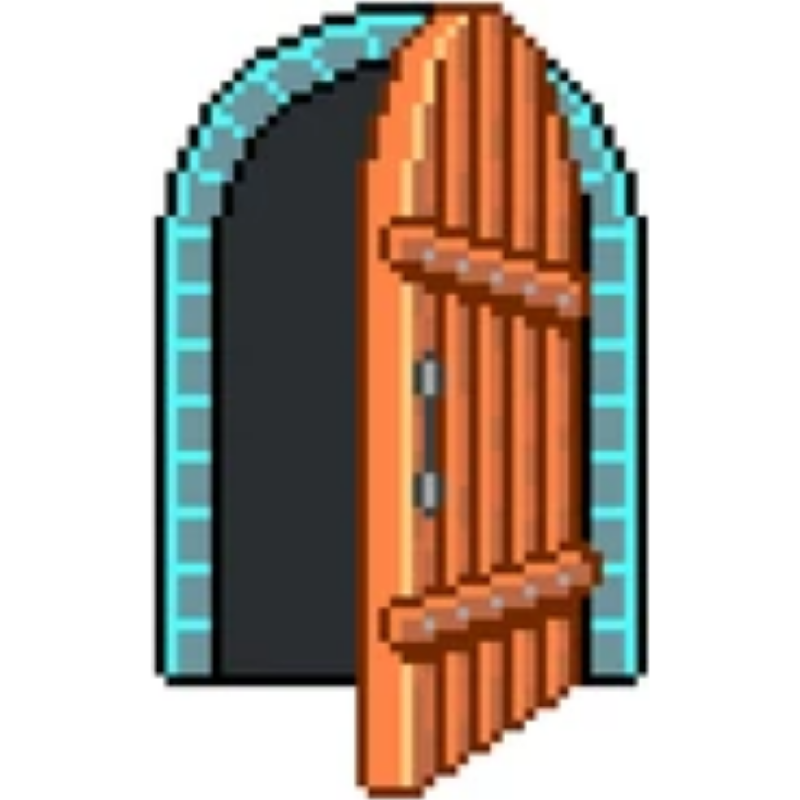
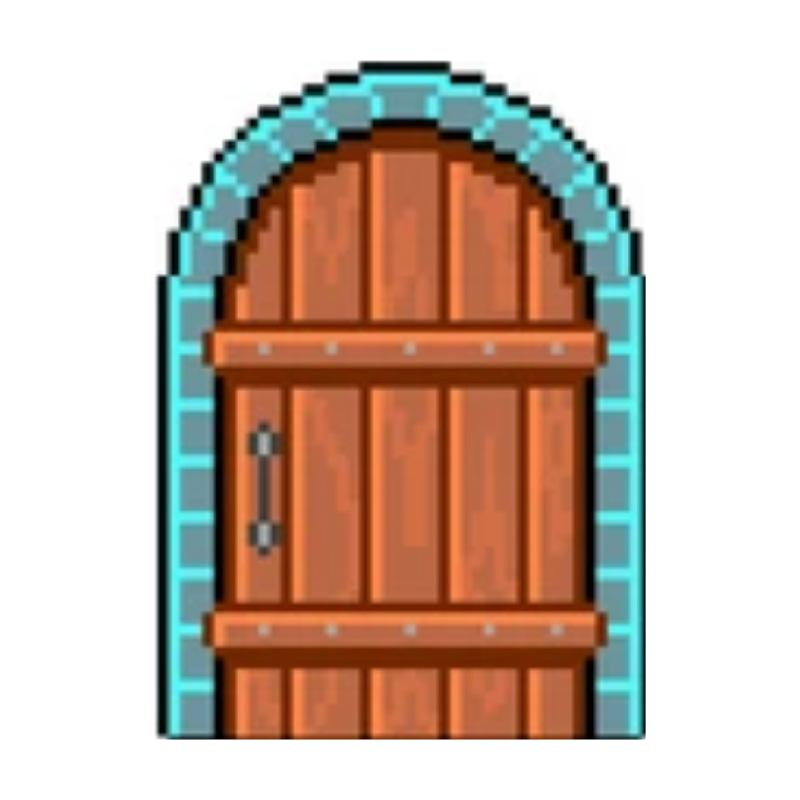
V1.50 - Renamed right picture - Added Door constructor in EntityFactory - Updated logic in InteractionSystem when it comes to doors, now it removes its collision component when you have key and changes texture - Added Doors in Main

diff --git a/core/src/main/java/com/sam/TERMINAL/systems/InteractionSystem.java b/core/src/main/java/com/sam/TERMINAL/systems/InteractionSystem.java
@@ -7,11 +7,10 @@ import com.badlogic.ashley.core.Family;
 import com.badlogic.ashley.utils.ImmutableArray;
 import com.badlogic.gdx.Gdx;
 import com.badlogic.gdx.Input;
-import com.badlogic.gdx.graphics.glutils.ETC1;
-import com.sam.TERMINAL.components.InteractableComponent;
-import com.sam.TERMINAL.components.InventoryComponent;
-import com.sam.TERMINAL.components.PlayerComponent;
-import com.sam.TERMINAL.components.TransformComponent;
+import com.badlogic.gdx.graphics.g2d.TextureRegion;
+import com.sam.TERMINAL.components.CollisionComponent;
+import com.sam.TERMINAL.components.SpriteComponent;
+import com.sam.TERMINAL.components.*;
 
 /**
  * InteractionSystem - Handles the logic for using objects in the world.
@@ -31,12 +30,18 @@ public class InteractionSystem extends EntitySystem {
     private ComponentMapper<TransformComponent> transformMapper;
     private  ComponentMapper<InteractableComponent> interactMapper;
     private  ComponentMapper<InventoryComponent> inventoryMapper;
+    private ComponentMapper<SpriteComponent> spriteMapper;
+
+    private final TextureRegion openDoorSprite;
 
 
-    public InteractionSystem() {
+    public InteractionSystem(TextureRegion openDoorSprite) {
+        this.openDoorSprite = openDoorSprite;
+
         transformMapper = ComponentMapper.getFor(TransformComponent.class);
         interactMapper = ComponentMapper.getFor(InteractableComponent.class);
         inventoryMapper =  ComponentMapper.getFor(InventoryComponent.class);
+        spriteMapper = ComponentMapper.getFor(SpriteComponent.class);
     }
 
     @Override
@@ -88,10 +93,14 @@ public class InteractionSystem extends EntitySystem {
             case "door":
                 if (inventory != null && inventory.hasItem("beep_card")) {
                     System.out.println("Door Unlocked!");
-                    //Change the sprite of door
+
+                    SpriteComponent doorSprite = spriteMapper.get(target);
+                    if (doorSprite !=null) {
+                        doorSprite.staticSprite = openDoorSprite;
+                    }
+
+                    target.remove(CollisionComponent.class);
                     typeData.isActive = false;
-                    //Remove door for now since no asset yet
-                    getEngine().removeEntity(target);
                 } else {
                     System.out.println("Door Locked! Find the Beep Card.");
                 }

diff --git a/core/src/main/java/com/sam/TERMINAL/Main.java b/core/src/main/java/com/sam/TERMINAL/Main.java
@@ -55,6 +55,13 @@ public class Main extends ApplicationAdapter {
 
         // Load Tiles
 
+        //Temp Door
+        Texture doorOpenTexture = new Texture(Gdx.files.internal("opendoor.png"));
+        TextureRegion doorOpenRegion = new TextureRegion(doorOpenTexture);
+
+        Texture doorClosedTexture = new Texture(Gdx.files.internal("closedoor.png"));
+        TextureRegion doorCloseRegion = new TextureRegion(doorClosedTexture);
+
         //Creates walls
         Texture wallTexture = new Texture(Gdx.files.internal("BackRoomsWall.png"));
         TextureRegion wallRegion = new TextureRegion(wallTexture);
@@ -156,7 +163,7 @@ public class Main extends ApplicationAdapter {
         engine.addSystem(new SaveSystem());
         engine.addSystem(new TileRenderSystem(batch, camera));
         engine.addSystem(new RenderSystem(batch, camera));
-        engine.addSystem((new InteractionSystem()));
+        engine.addSystem((new InteractionSystem(doorOpenRegion)));
 
         // === 3. LOAD ASSETS ===
         // TODO: Replace with placeholder if mc_walk.png doesn't exist
@@ -201,6 +208,7 @@ public class Main extends ApplicationAdapter {
 
 
         EntityFactory.createPlayer(engine, startPixelX, startPixelY, 20f, 20f, walkAnimation, idleAnimation);
+        EntityFactory.createDoor(engine, startPixelX + 64f, startPixelY +64f, doorCloseRegion);
 
         Gdx.app.log("TERMINAL", "Spawned Player at (" + startPixelX + "," + startPixelY + ")");
         Gdx.app.log("TERMINAL", "Spawned Key nearby at (" + beepSpawnX + "," + beepSpawnY + ")");

diff --git a/core/src/main/java/com/sam/TERMINAL/entities/EntityFactory.java b/core/src/main/java/com/sam/TERMINAL/entities/EntityFactory.java
@@ -53,6 +53,31 @@ public class EntityFactory {
         engine.addEntity(player);
     }
 
+    public static  void createDoor(PooledEngine engine, float x, float y, TextureRegion closedSprite) {
+        Entity door = engine.createEntity();
+
+        TransformComponent transform = engine.createComponent(TransformComponent.class);
+        transform.pos.set(x, y);
+        transform.width = 32;
+        transform.height = 32;
+        transform.updateBounds();
+        door.add(transform);
+
+        SpriteComponent sprite = engine.createComponent(SpriteComponent.class);
+        sprite.staticSprite = closedSprite;
+        sprite.isStatic = true;
+        door.add(sprite);
+
+        door.add(engine.createComponent(CollisionComponent.class));
+        door.add(new InteractableComponent("door", 40f));
+
+        engine.addEntity(door);
+
+
+    }
+
+
+
     /**
      * TODO: Future entity creation methods
      * - createCommuter(engine, x, y)

diff --git a/core/src/main/java/com/sam/TERMINAL/components/InteractableComponent.java b/core/src/main/java/com/sam/TERMINAL/components/InteractableComponent.java
@@ -17,7 +17,7 @@ public class InteractableComponent implements Component {
     public String type = "unknown";
     public boolean isActive = true; //This what determines if you can interact with it
 
-    public InteractableComponent() {}
+    //public InteractableComponent() {}
 
     public InteractableComponent(String type, float radius) {
         this.type = type;
